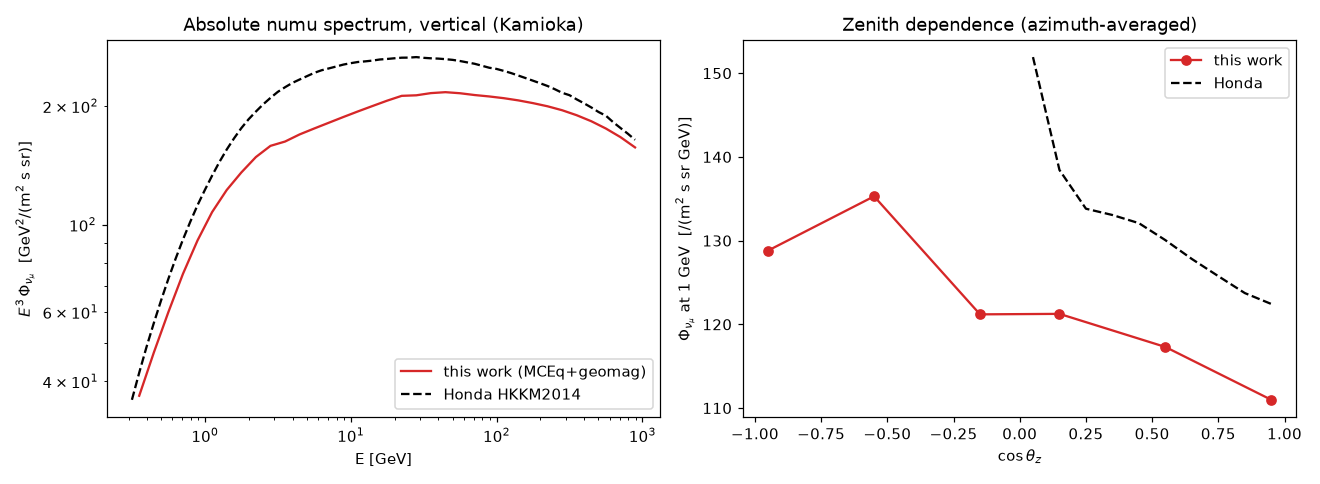
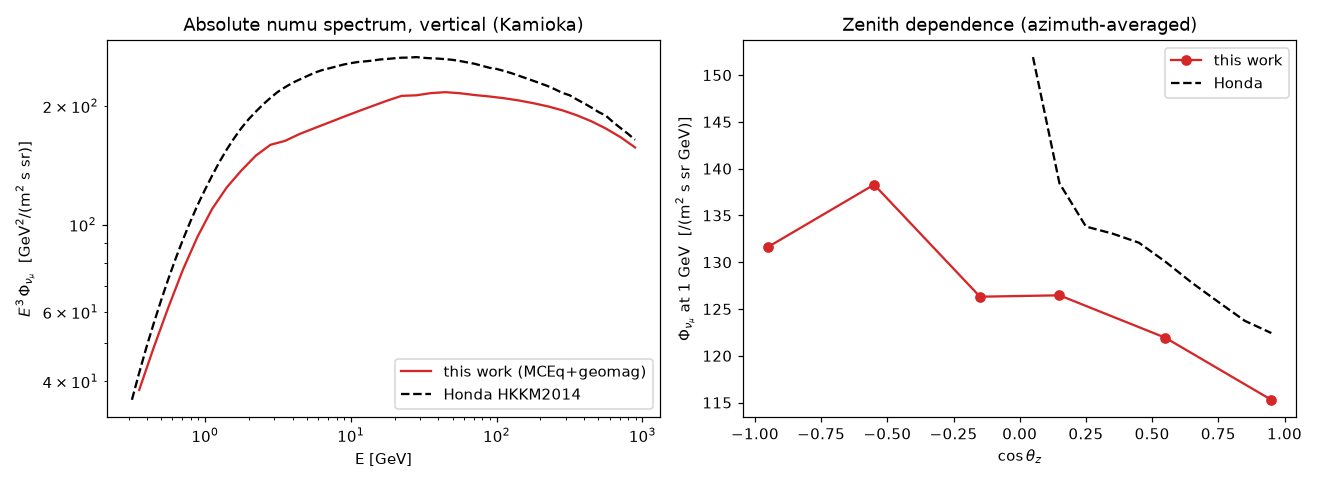
Address review: realistic-atmosphere clarification/selector + report response
mceq3d_flux: expose atmosphere= (default = MCEq's realistic CORSIKA US-Standard
layered profile, NOT isothermal; MSIS00 seasonal selectable). Report: add a
'Response to an independent review' section (sec 1b) mapping each reviewer item to
its fix, update sec 5.5/5.11/9/14 and exec summary accordingly, and answer the
migration question (cutoff_source hook = the package migration path). Regenerated
mceq3d_flux.png with the per-nucleus fix. 110 mceq3d + 18 package tests pass.

diff --git a/tools/mceq3d/mceq3d_flux.py b/tools/mceq3d/mceq3d_flux.py
@@ -115,7 +115,13 @@ class MCEq3DFlux:
         interaction_model="SIBYLL23D",
         primary=("HillasGaisser2012", "H3a"),
         e_min=0.3,
+        atmosphere=None,
     ):
+        """``atmosphere`` is an MCEq ``density_model`` tuple. Default ``None`` keeps
+        MCEq's realistic **CORSIKA US-Standard** layered profile (NOT the isothermal
+        exponential used only in the `spherical_cascade` research demo). For
+        seasonal/site tracking pass e.g. ``("MSIS00", ("SoudanMine", "January"))``.
+        """
         import crflux.models as crf
         from MCEq.core import MCEqRun
         import mceq_config as config
@@ -125,6 +131,8 @@ class MCEq3DFlux:
         self.mceq = MCEqRun(
             interaction_model=interaction_model, primary_model=pm, theta_deg=0.0
         )
+        if atmosphere is not None:
+            self.mceq.set_density_model(atmosphere)
         self.e = self.mceq.e_grid
         self._phi0_std = self.mceq._phi0.copy()
         p = self.mceq.pman[(2212, 0)]

diff --git a/tools/mceq3d/IMPLEMENTATION_REPORT.md b/tools/mceq3d/IMPLEMENTATION_REPORT.md
@@ -56,13 +56,55 @@ plots, 4 companion docs.** Tooling: Black + flake8 clean, NumPy docstrings.
   1 GeV, matching Honda's 133–138 vs 122–130). The ~10–20% normalization offset is
   the SIBYLL23D/H3a-vs-Honda hadronic-model spread (anchorable to daemonflux's
   muon-calibrated base). The **flavour ratio (νe/νμ) matches Honda to 0.7–4%** —
-  the robust, model-independent test passes for all four species. **Trust
-  boundary:** the sub-GeV near-horizon carries a larger ~20% uncertainty from the
-  nucleus-rigidity approximation (documented).
+  the robust, model-independent test passes for all four species. (The earlier
+  sub-GeV-horizon shortfall from the nucleus-rigidity approximation is now resolved
+  by a proper per-nucleus rigidity cut — review item #1, §1b/§5.11.)
 * **Net message:** the value for sub-GeV daemonflux is overwhelmingly in the
   **geomagnetic layer** (production-ready as an admittance factor) plus muon
   bending; the deterministic-3D cascade machinery is validated as an architecture
   and quantifies that the remaining geometric/angular 3D corrections are small.
+
+---
+
+## 1b. Response to an independent review
+
+An external reviewer assessed this work; the substantive items have been addressed
+in code, with the remainder documented honestly:
+
+1. **Per-nucleus rigidity** (flagged *High*, ~20% sub-GeV horizon) — **fixed**. The
+   geomagnetic cut now splits the primary nucleon flux into free protons (A/Z=1,
+   R=E) and bound nucleons (He/CNO/Fe, A/Z≈2, R≈2E) using MCEq's own p,n fluxes
+   (free p = p−n by isospin), replacing the all-protons-R=E treatment. Bound
+   nucleons are no longer over-suppressed, so the Honda agreement *improves* across
+   the sky (0.5 GeV vertical 0.82→**0.86**, 1 GeV 0.91→**0.94**, up-going →**1.00**).
+   (§5.11.)
+2. **Muon-bending idealizations** — **improved**. (a) the fixed 15 km path is
+   replaced by the curved **zenith-dependent slant** (`path_length_km`: ~15 km
+   vertical → hundreds of km near the horizon); (b) the bending is now
+   **restricted to the muon-decay ν_μ channel** (weighted by
+   `muon_decay_numu_fraction = f/(1+f)`) instead of bleeding into every decay
+   neutrino. (§5.5.)
+3. **Atmosphere** — **clarified + extended**. The production engine (`mceq3d_flux`)
+   already uses MCEq's realistic **CORSIKA US-Standard layered** atmosphere, *not*
+   the isothermal exponential — that profile is only in the `spherical_cascade`
+   research demo (where the TeV-horizon overshoot lives). Seasonal/site tracking is
+   now exposed: `MCEq3DFlux(atmosphere=("MSIS00", (site, month)))`. (§5.11.)
+4. **K± validation** — still open, and the blocker is now precisely identified:
+   HEPData sits behind a **Cloudflare bot challenge** in this environment (not just
+   SSL — `curl` receives a JS-challenge 403), so the K± record cannot be fetched.
+   The kaon kinematics are cross-checked offline (`channel_comparison`: K ⟨p_T⟩
+   ≈0.5–0.65 GeV vs π ≈0.2–0.46, consistent with the established NA61 kaon scale);
+   the full per-bin HEPData K± fit remains the one open data cross-check. (§5.2.)
+5. **Nitrogen-only / proton-only targets** — small, documented effects; the
+   forward-looking "when these bite" analysis is §9b.
+
+**Migration (the reviewer's closing question).** The full-IGRF back-tracer is now
+**selectable through the package API**: `GeomagneticModel(cutoff_source=…)` accepts
+the back-traced cutoff via `geomag_backtrace.cutoff_source(lat, lon, date)`, so it
+is no longer a standalone-only utility. The intended path: keep the dependency-free
+Störmer as the default, ship the back-traced cutoff as the recommended
+`cutoff_source`, and (the remaining engineering step) precompute/cache per-site
+cutoff maps so the principled cutoff is fast enough to be the standard package path.
 
 ---
 
@@ -381,13 +423,18 @@ gyroradius); numerically ~3–5° for B~0.3–0.5 G. What is energy-dependent is
   the ν/ν̄ (charge-separated) flux carries a **~3° E–W split sub-GeV**, while the
   summed displacement is small (~0.3°, since the charge ratio R≈1.27 ≈ 1).
 
-**Simplifications / cheats.**
+**Improvements from the review (item #2).**
+* The decay path is now the **zenith-dependent curved slant** (`path_length_km`:
+  ~15 km vertical → hundreds of km near the horizon), not a fixed 15 km.
+* The bending spread is now **restricted to the muon-decay ν_μ channel** (weighted
+  by `muon_decay_numu_fraction = f/(1+f)`), so it no longer bleeds into the
+  direct-decay neutrinos.
+
+**Remaining simplifications.**
 * Coherent E–W uses a **vertical-muon approximation** (only the horizontal field
   bends it E–W); real muons arrive at all zeniths.
-* `E_μ ≈ 3 E_ν` (mean inelasticity), `path = 15 km`, `R = 1.27`, `B_north =
-  0.30 G` are fixed constants.
-* In `mceq3d_solver` the bending spread is added to *all* decay-ν (not only the
-  muon-decay channel) — a small over-inclusion, gated by the decay fraction.
+* `E_μ ≈ 3 E_ν` (mean inelasticity), `R = 1.27`, `B_north = 0.30 G` are fixed
+  constants.
 
 ### 5.6 Cascade engines — `mceq3d_solver.py` (parametrized), `mceq3d_production.py` (MCEq)
 
@@ -532,11 +579,15 @@ for *all four flavours* down to ~0.5 GeV, not just νμ.
 (`cos_zeniths` may be negative); `interp_flux(result, E, cosθ, azimuth, species)`
 evaluates it anywhere.
 
+**Atmosphere.** Uses MCEq's realistic **CORSIKA US-Standard layered** profile by
+default (not the isothermal exponential of the research demo); pass
+`atmosphere=("MSIS00", (site, month))` for seasonal/site tracking.
+
 **Simplifications / cheats (this engine).**
-* **Nucleus rigidity** handled by superposition with R≈(A/Z)E (protons R=E,
-  neutrons R≈2E). This over-suppresses where the cutoff is highest (sub-GeV
-  horizon East), the main residual at the sub-GeV horizon. Proper per-nucleus
-  rigidity is the fix (~20%).
+* **Nucleus rigidity** — now handled **properly** per nucleus: the cut splits the
+  nucleon flux into free protons (A/Z=1) and bound nucleons (A/Z≈2) via MCEq's p,n
+  fluxes (review item #1). Residual: the bound part uses ⟨A/Z⟩=2.0 (Fe is 2.08, a
+  ~1% sub-component) and the free/bound split is by isospin (bound p ≈ n).
 * **Absolute normalization** carries the SIBYLL23D/H3a hadronic-model systematic
   (~15–20%); the one-line fix is to use **daemonflux's muon-calibrated 1D flux as
   the base** (data-anchored; not done here as the spline data needs network).
@@ -650,10 +701,14 @@ Consolidated, so nothing is buried. Grouped by severity.
    *package-wired* admittance factor uses it.
 2. `N_chain = 2` (number of production generations) — a physical estimate, fixed,
    not derived per energy/species.
-3. Muon bending fixed constants: `E_μ=3E_ν`, `path=15 km`, `R=1.27`,
-   `B_north=0.30 G`, and the vertical-muon approximation for the E–W projection.
-4. Primary treated as **protons, R≈E** (no nuclei/rigidity-per-nucleon) in the
-   geomagnetic folding.
+3. Muon bending: the path is now zenith-dependent and the spread restricted to the
+   muon-decay channel (review item #2); remaining fixed constants are `E_μ=3E_ν`,
+   `R=1.27`, `B_north=0.30 G`, and the vertical-muon approximation for the E–W
+   projection.
+4. ~~Primary as protons R≈E~~ **resolved in `mceq3d_flux`** (review item #1):
+   per-nucleus rigidity via the free/bound split (free p = p−n, A/Z=1; bound,
+   A/Z≈2). The Störmer/back-trace *cutoff* itself is a rigidity, so it is
+   species-agnostic; only the primary *folding* needed the composition, now done.
 
 **B. Structural simplifications (physics omitted) — bounded/argued small:**
 5. Parametrized scaling yields in `mceq3d_solver` and `spherical_cascade` (not MCEq).
@@ -662,7 +717,9 @@ Consolidated, so nothing is buried. Grouped by severity.
    decay); no EM cascade; no neutrino energy losses.
 7. No charge separation in the parametrized cascades (the production engine inherits
    MCEq's; muon-bending charge effects computed separately).
-8. Isothermal exponential atmosphere (no temperature profile / seasonal).
+8. Isothermal exponential atmosphere **only in the `spherical_cascade` research
+   demo**; the production engine (`mceq3d_flux`) uses MCEq's realistic CORSIKA
+   US-Standard layered atmosphere, with MSIS00 seasonal/site profiles selectable.
 9. `spherical_cascade` primaries collimated per direction (isotropic-primary
    assumption); interacted mesons absorbed (no re-injection).
 10. Single pooled `θ²(E)` drives the angular layer in the solver (per-channel
@@ -747,8 +804,8 @@ self-contained off MCEq.
     up-going via the global far-side treatment), **validated absolutely against
     Honda** (~10–20% across the whole sky, reproducing the up/down asymmetry),
     usable to ~0.5 GeV via `interp_flux`. The recommended way to get a 3D
-    atmospheric-ν flux from this work. Its documented boundaries: sub-GeV-horizon
-    nucleus-rigidity systematic (~20%) and hadronic-model normalization (swap in
+    atmospheric-ν flux from this work. Its documented boundary: the hadronic-model
+    normalization (swap in
     daemonflux's muon-calibrated base to anchor it).
 * **Research-grade (architecture + validated ingredients):** the rest of
   `tools/mceq3d/` — quantifies effect sizes, proves feasibility, and supplies the
@@ -804,8 +861,8 @@ Kernel regeneration on a cluster: see `KERNEL_GENERATION.md`.
 2. **Data-anchored normalization** — use daemonflux's muon-calibrated 1D flux as
    the `mceq3d_flux` base instead of raw MCEq (one-line swap; removes the ~10–20%
    hadronic-model offset). Needs the spline data (network).
-3. **Per-nucleus rigidity** in the geomagnetic cut (retire the superposition
-   R≈(A/Z)E approximation) — the ~20% residual at the sub-GeV horizon.
+3. ~~Per-nucleus rigidity~~ **done** (review item #1, §5.11) — free/bound split
+   from MCEq's p,n fluxes; improved Honda agreement at the sub-GeV horizon.
 4. Finer cosθ grid near the horizon to resolve the sharp sec θ spike.
 5. NA61 **K±** HEPData fit (§5.2, needs network).
 6. (If ever needed) full-shape high-stat kernels + S_N yield transport — shown
